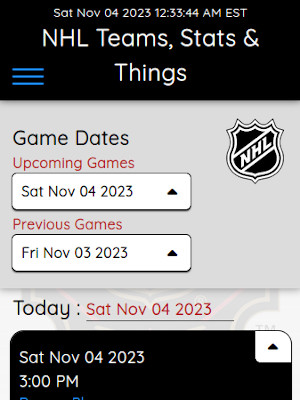
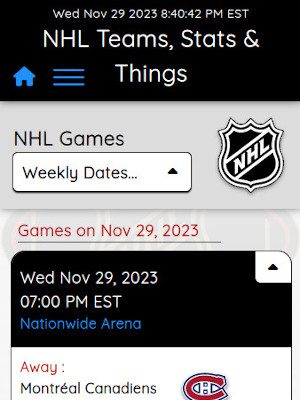
added the hockey project back, updated text and photos

diff --git a/index.html b/index.html
@@ -329,8 +329,8 @@
         <div class="glider-container">
           <div class="glider">
             <!-- SLIDE 1 -->
-            <!-- <div class="glider-slide">
-              <a href="https://naynayren.github.io/nhl-teams" target="_blank">
+            <div class="glider-slide">
+              <a href="https://nhlthings.online" target="_blank">
                 <div class="glider-slide-dropdown">
                   Click to Visit
                   <i
@@ -360,6 +360,13 @@
               <div class="project-photo-title">
                 <span class="yellow-text">NHL Teams, Stats & Things</span>
                 <div class="project-stack">
+                  <img
+                    src="img/skills/laravel.png"
+                    alt="Laravel Logo"
+                    title="Laravel Logo"
+                    width="100"
+                    height="103"
+                  />
                   <img
                     src="img/skills/css.png"
                     alt="CSS Logo"
@@ -393,26 +400,27 @@
               <p class="project-photo-caption">
                 I thought I would build this app out as a meens of api and
                 coding practice. I'm also a fan of hockey, namely the Lightning
-                & Rangers. The app is basically what the heading says: a
-                collection of NHL teams, their rosters, and both team and player
-                stats, along with game schedules too. The API is
+                & Rangers. It's currently under construction, so it will be
+                constantly updated over the next bit. It will hopefully be a
+                collection of NHL teams, their rosters, and stats, along with
+                game schedules too. The API is
                 <a
                   class="purple-text"
-                  href="https://gitlab.com/dword4/nhlapi/-/blob/master/stats-api.md"
+                  href="https://gitlab.com/dword4/nhlapi/-/blob/master/new-api.md"
                   target="_blank"
-                  title="API Docs"
-                  >stats-api.md</a
+                  title="NHL API Link"
+                  >nhlapi/new-api.md</a
                 >
                 and maintained by
                 <a
                   class="purple-text"
-                  href="https://gitlab.com/MarchandMD"
+                  href="https://gitlab.com/dword4"
                   target="_blank"
                   title="API Maintainer"
-                  >Michael Marchand</a
+                  >Drew Hynes </a
                 >.
               </p>
-            </div> -->
+            </div>
             <!-- SLIDE 2 -->
             <div class="glider-slide">
               <a
